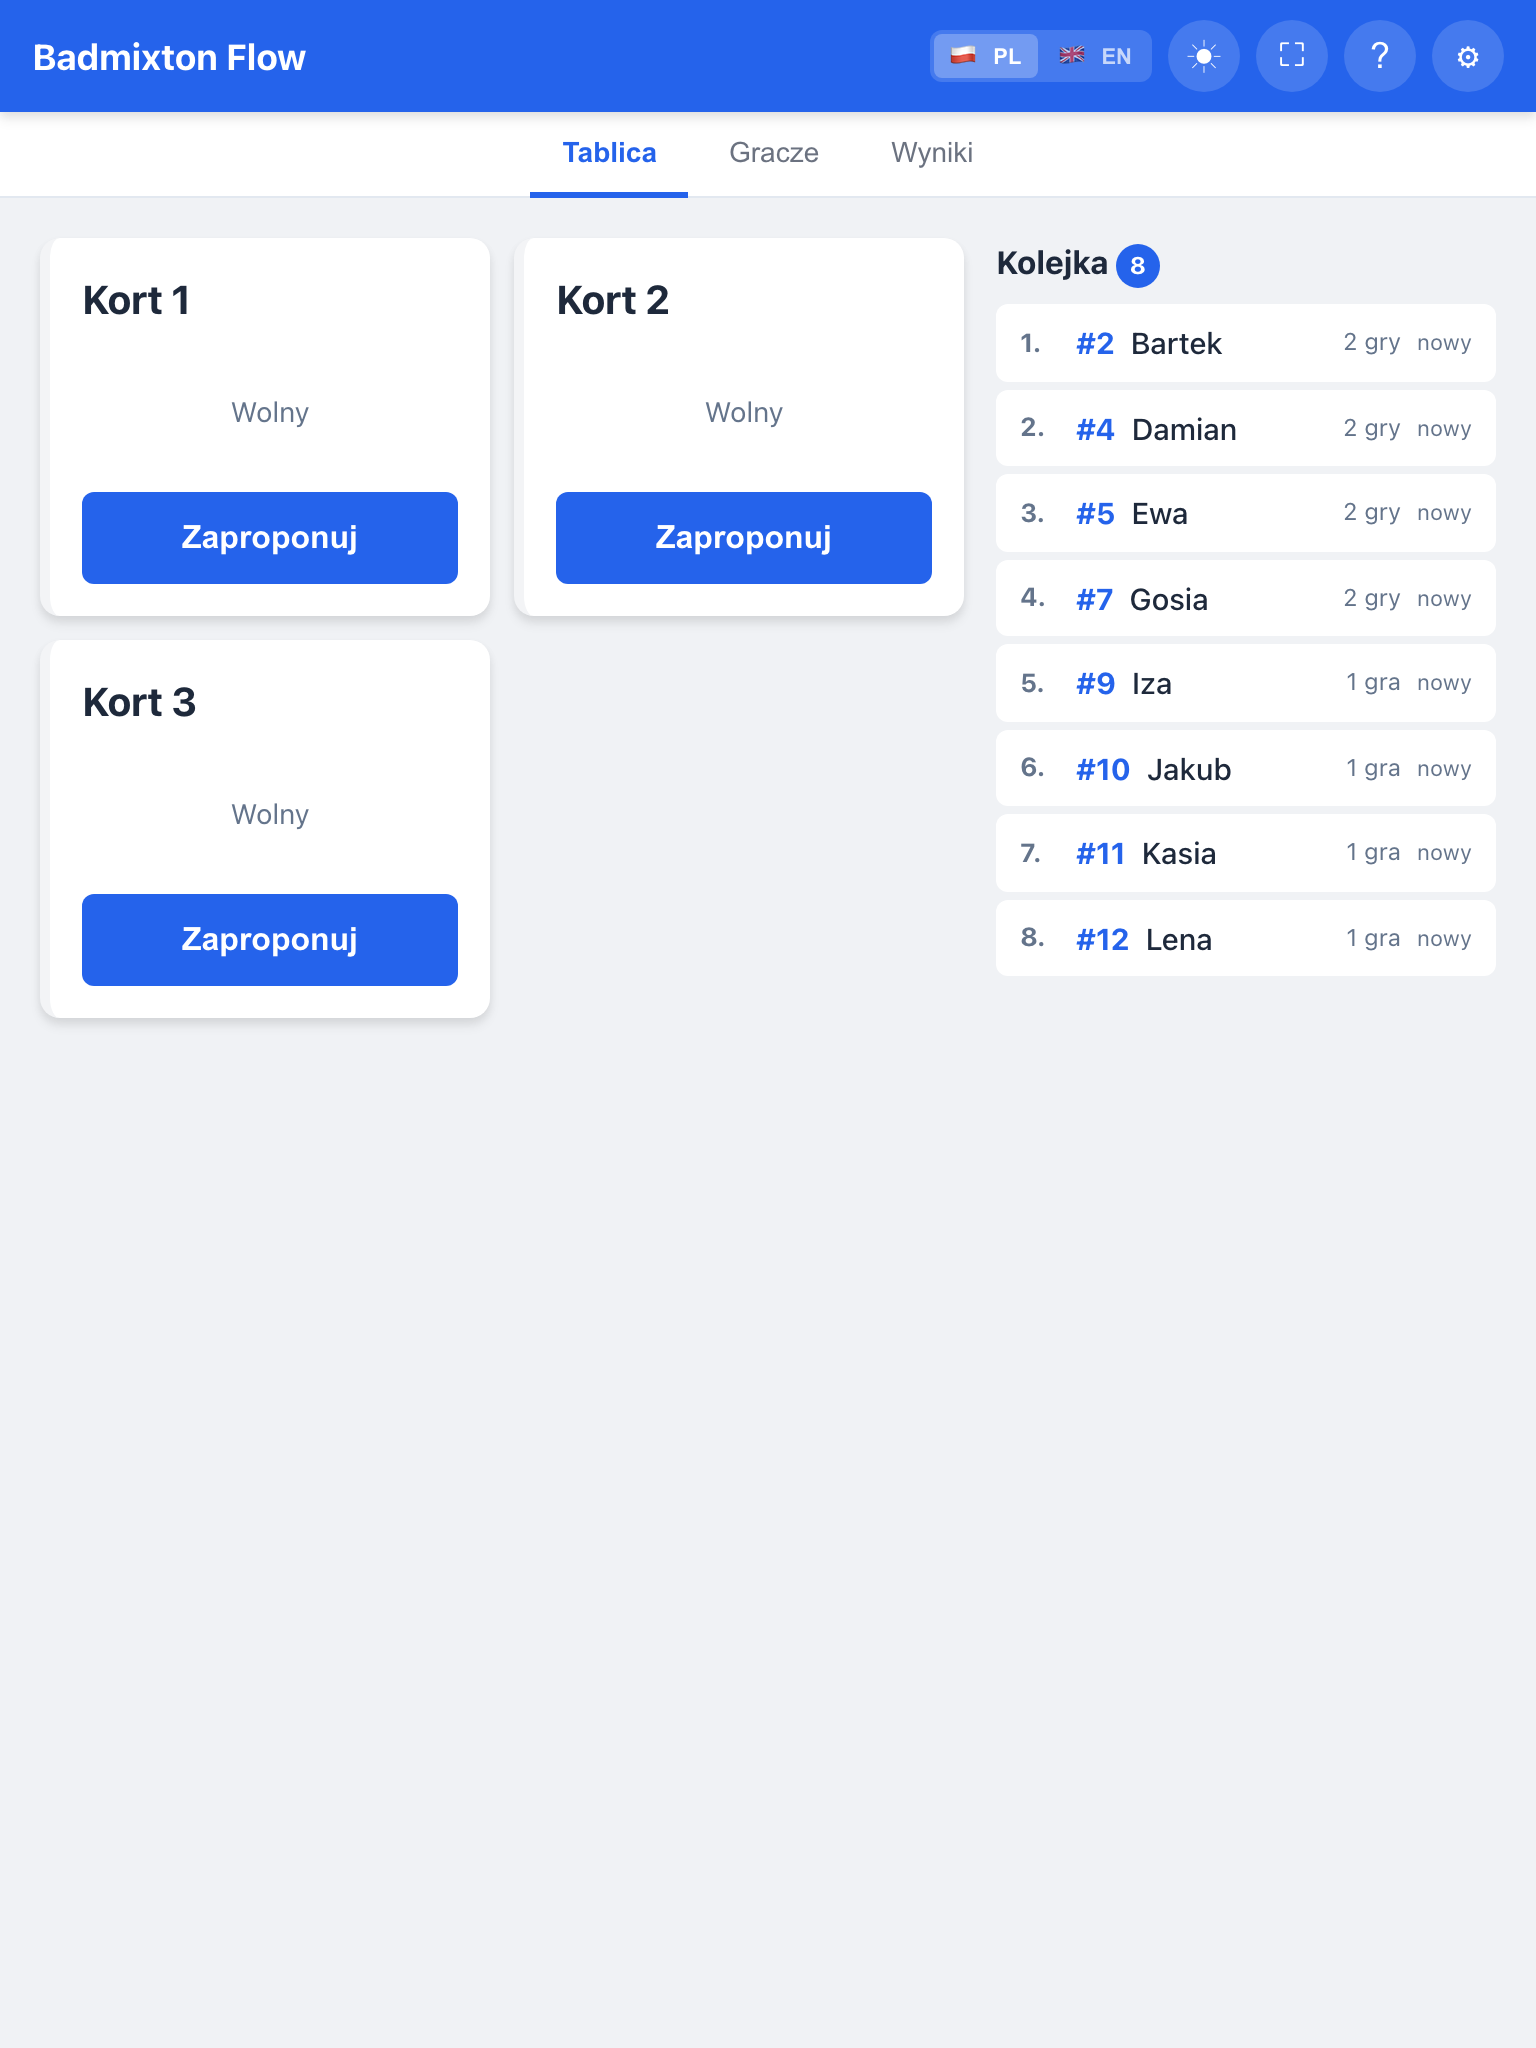
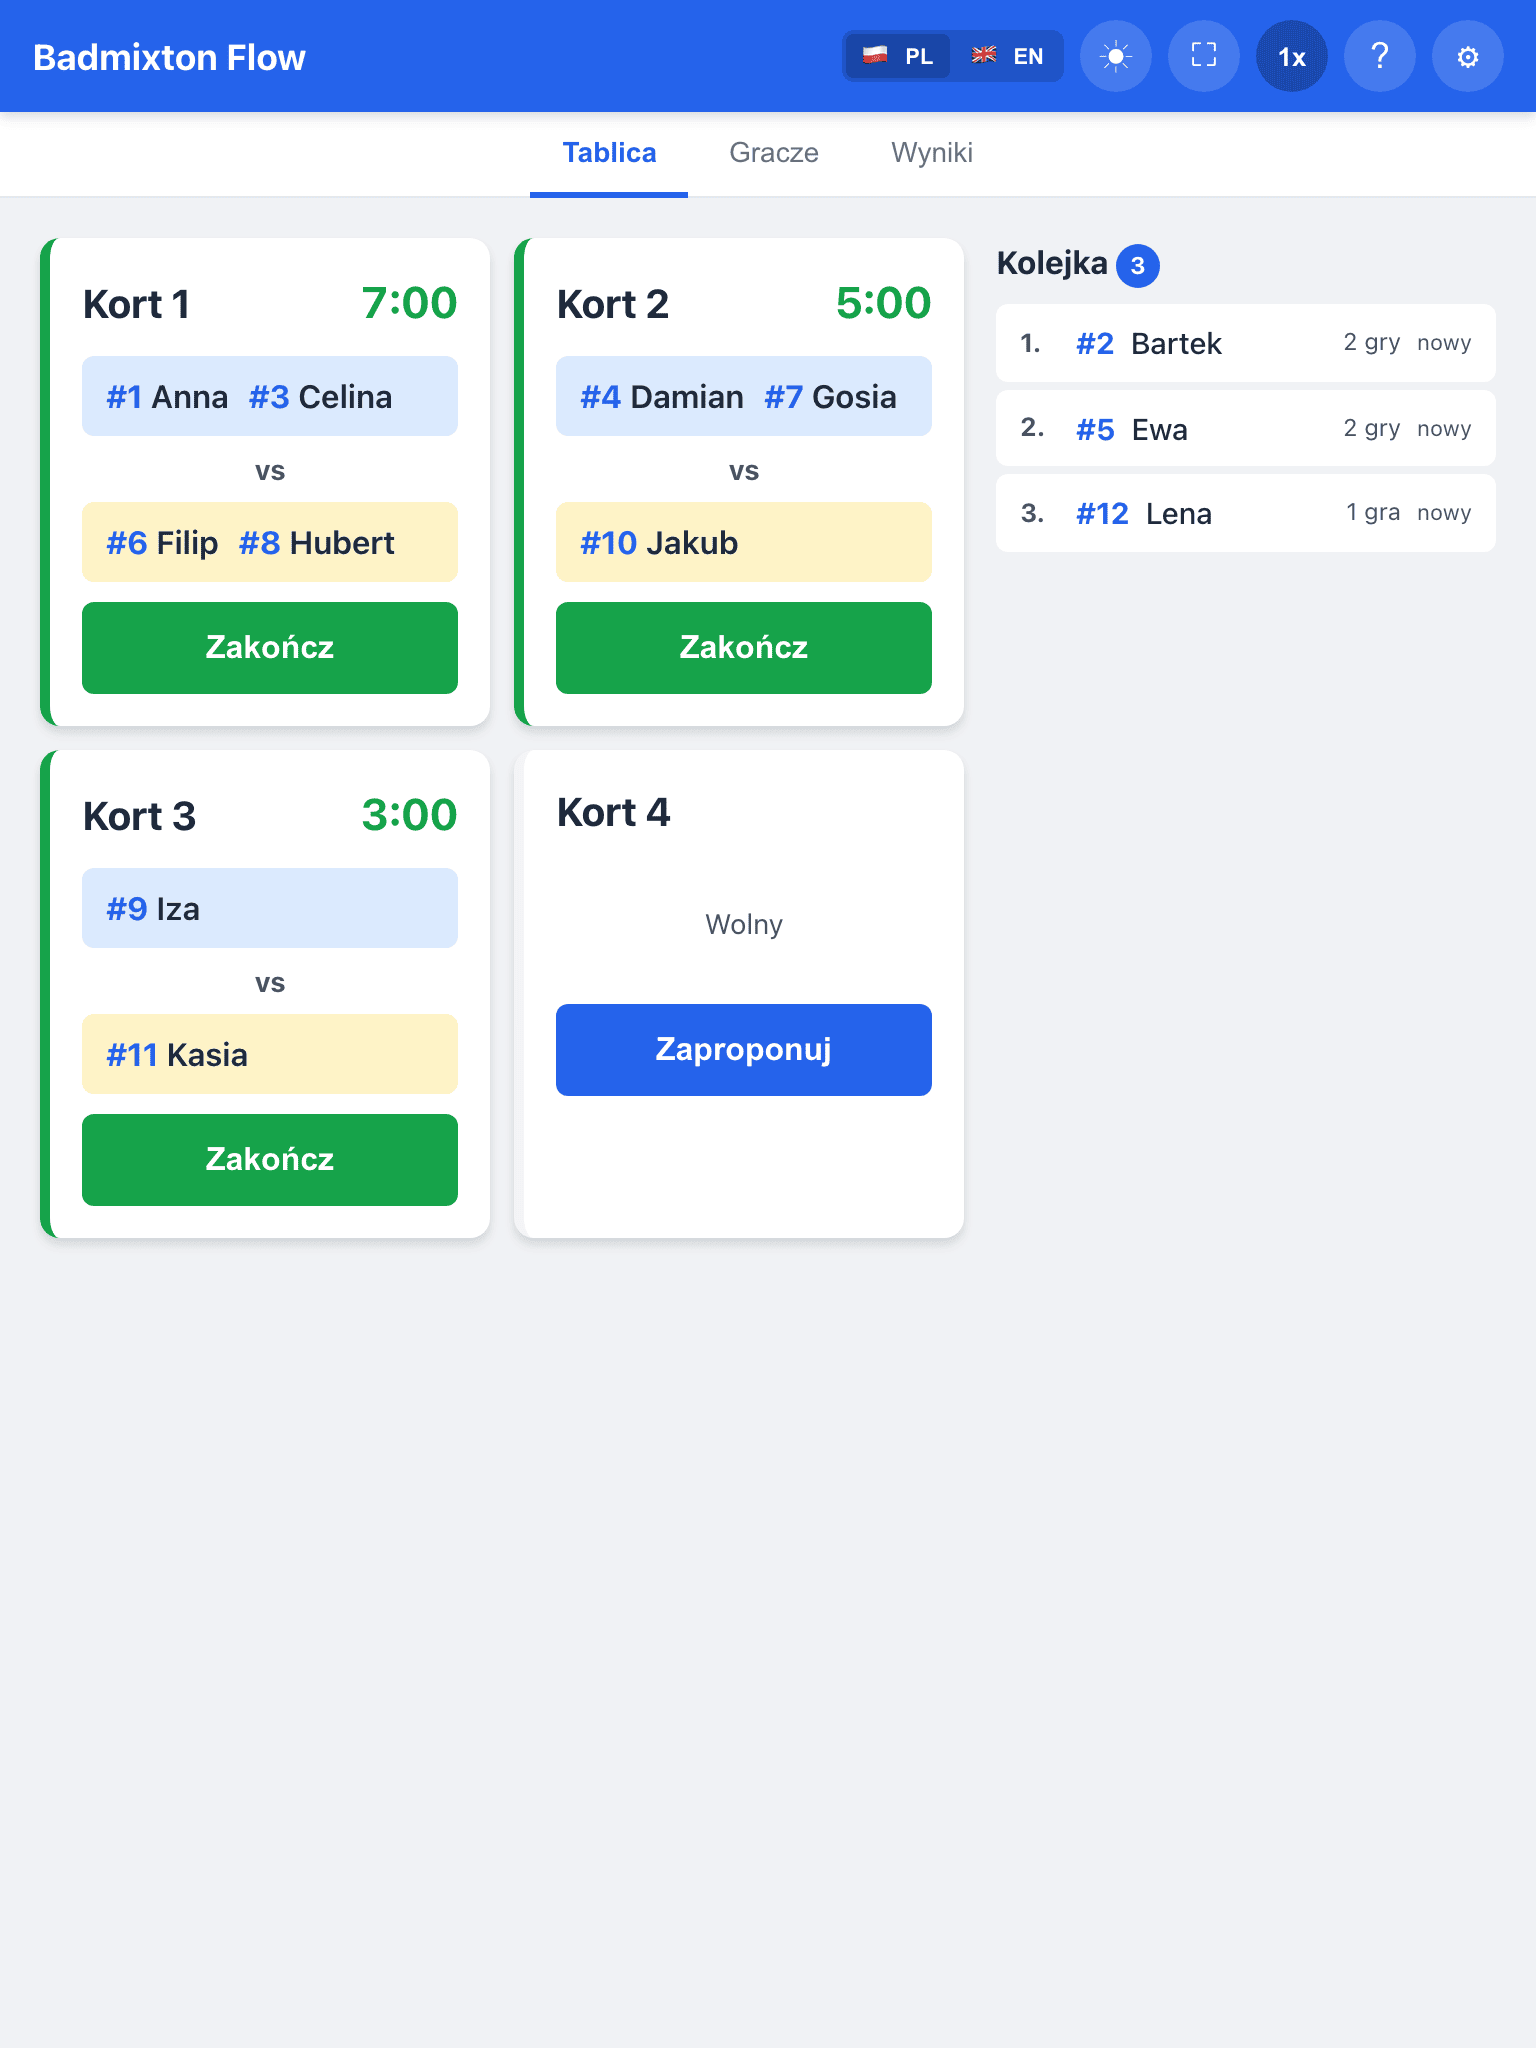
Improve board screenshot (2v2/2v1/1v1/empty) and optimize PNGs
- Board screenshot now shows all 3 game formats + empty court
- Add help modal screenshot (08-help)
- Integrate pngquant into screenshot script (~70% size reduction)
- Add screenshot generation docs to CLAUDE.md

diff --git a/scripts/screenshots.js b/scripts/screenshots.js
@@ -32,7 +32,7 @@ async function seedDemoData(page) {
   await page.evaluate(function() {
     // Create session
     App.Session.create();
-    App.Session.initCourts([1, 2, 3]);
+    App.Session.initCourts([1, 2, 3, 4]);
 
     // Add players
     var names = ['Anna', 'Bartek', 'Celina', 'Damian', 'Ewa', 'Filip',
@@ -104,17 +104,39 @@ async function seedDemoData(page) {
       });
     });
 
-    // Put an active game on court 1
-    var court1Key = Object.keys(App.state.courts)[0];
-    var court1 = App.state.courts[court1Key];
-    court1.occupied = true;
-    court1.gameStartTime = now - 420000; // 7 min ago
-    court1.currentMatch = {
-      teamA: [ids[0], ids[2]],
-      teamB: [ids[5], ids[7]]
-    };
-    // Remove those players from queue
-    [ids[0], ids[2], ids[5], ids[7]].forEach(function(pid) {
+    // Court 1: 2v2, started 7 min ago
+    // Court 2: 2v1, started 5 min ago
+    // Court 3: 1v1, started 3 min ago
+    // Court 4: empty
+    var courtKeys = Object.keys(App.state.courts);
+    var activeGames = [
+      { teamA: [ids[0], ids[2]], teamB: [ids[5], ids[7]], ago: 420000, court: 0 },
+      { teamA: [ids[3], ids[6]], teamB: [ids[9]],         ago: 300000, court: 1 },
+      { teamA: [ids[8]],         teamB: [ids[10]],        ago: 180000, court: 2 }
+    ];
+
+    var playingIds = [];
+    activeGames.forEach(function(g) {
+      var mId = App.Utils.generateId('m');
+      App.state.matches[mId] = {
+        id: mId,
+        teamA: g.teamA,
+        teamB: g.teamB,
+        score: null,
+        status: 'playing',
+        startTime: now - g.ago,
+        endTime: null,
+        courtId: courtKeys[g.court]
+      };
+      var court = App.state.courts[courtKeys[g.court]];
+      court.occupied = true;
+      court.gameStartTime = now - g.ago;
+      court.currentMatch = mId;
+      playingIds = playingIds.concat(g.teamA).concat(g.teamB);
+    });
+
+    // Remove playing players from queue
+    playingIds.forEach(function(pid) {
       App.Queue.remove(pid);
     });
 
@@ -200,7 +222,20 @@ async function main() {
       }
     }
 
-    console.log('\nAll screenshots captured successfully!');
+    console.log('\nAll screenshots captured. Optimizing PNGs...');
+
+    // Optimize with pngquant (lossy, significant size reduction)
+    try {
+      execSync('pngquant --version', { stdio: 'ignore' });
+      execSync('pngquant --force --quality=65-90 --skip-if-larger --ext .png ' +
+        TABS.map(function(t) { return '"' + path.join(OUT_DIR, t[0] + '.png') + '"'; }).join(' '),
+        { stdio: 'inherit' });
+      console.log('PNGs optimized with pngquant.');
+    } catch (e) {
+      console.log('pngquant not found — skipping optimization. Install with: brew install pngquant');
+    }
+
+    console.log('Done!');
   } catch (err) {
     console.error('Error:', err.message);
     exitCode = 1;

diff --git a/CLAUDE.md b/CLAUDE.md
@@ -87,6 +87,23 @@ npm run simulation -- --lang pl                                       # Polish r
 
 Runs a full session simulation using the app's suggestion algorithm and generates an HTML report (`simulation-report.html`) with leaderboard, pair stats, match log, and games distribution. Supports `--lang pl|en` (default: en). Open in browser and print to PDF.
 
+### Screenshots:
+```bash
+npm run screenshots   # regenerate all screenshots in screenshots/
+```
+
+Uses Playwright (Chromium) to capture each tab at 768×1024 @2x. PNGs are auto-optimized with `pngquant` (lossy, ~70% smaller); skipped gracefully if not installed (`brew install pngquant`). The script (`scripts/screenshots.js`) starts a local server, seeds demo data (12 players, finished matches, active games), and captures:
+- `01-board` — Board tab in player mode: 4 courts (2v2, 2v1, 1v1, empty), queue sidebar
+- `02-players` — Players tab in admin mode
+- `03-results` — Results leaderboard + session highlights in player mode
+- `04-queue` — Queue tab in admin mode
+- `05-courts` — Courts tab in admin mode
+- `06-session` — Session tab in admin mode
+- `07-history` — History tab in admin mode
+- `08-help` — Help modal overlay
+
+When adding new tabs or modals, add an entry to the `TABS` array in the script. Screenshots are committed to `screenshots/` and referenced in README.
+
 ## Architecture
 
 Single global `App` object (created in `assets/js/i18n.js`) with modules:
